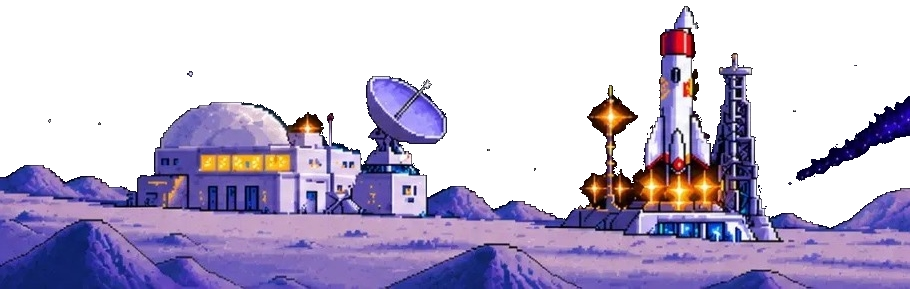
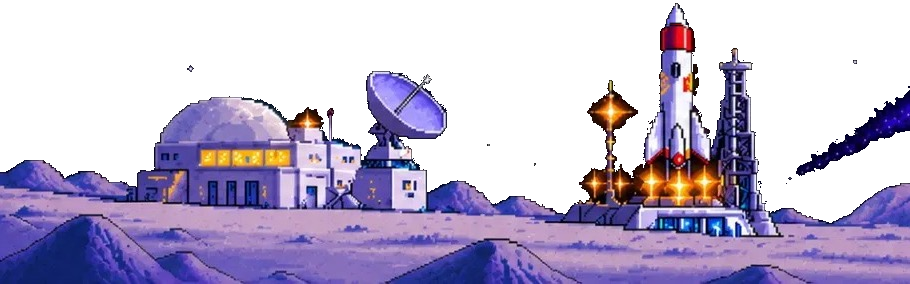
fix(dashboard): align rocket white nose cone to true center axis

diff --git a/mission-architect/apps/web/src/styles/ui.css b/mission-architect/apps/web/src/styles/ui.css
@@ -20,7 +20,7 @@ body{font-family:'IBM Plex Sans',system-ui,sans-serif;color:var(--ink)}
 .abs{position:absolute}
 .mountains{position:absolute;left:0;right:0;bottom:0;height:150px;background:linear-gradient(#8f80e6,#6a5acd 40%,#3d3294);
   clip-path:polygon(0 45%,4% 22%,8% 45%,13% 58%,20% 48%,28% 66%,38% 56%,48% 68%,58% 58%,68% 70%,78% 50%,86% 38%,92% 14%,96% 35%,100% 20%,100% 100%,0 100%)}
-.ground{position:absolute;left:273px;top:531px;width:910px;height:289px;background:url(/assets/backgrounds/ground.png) no-repeat;image-rendering:pixelated;
+.ground{position:absolute;left:273px;top:536px;width:910px;height:284px;background:url(/assets/backgrounds/ground.png) no-repeat;image-rendering:pixelated;
   -webkit-mask-image:linear-gradient(90deg,transparent,#000 6%,#000 94%,transparent);-webkit-mask-composite:source-in;
   mask-image:linear-gradient(90deg,transparent,#000 6%,#000 94%,transparent);mask-composite:intersect}
 .ground.small{transform:scale(.8);transform-origin:50% 100%;left:273px}
